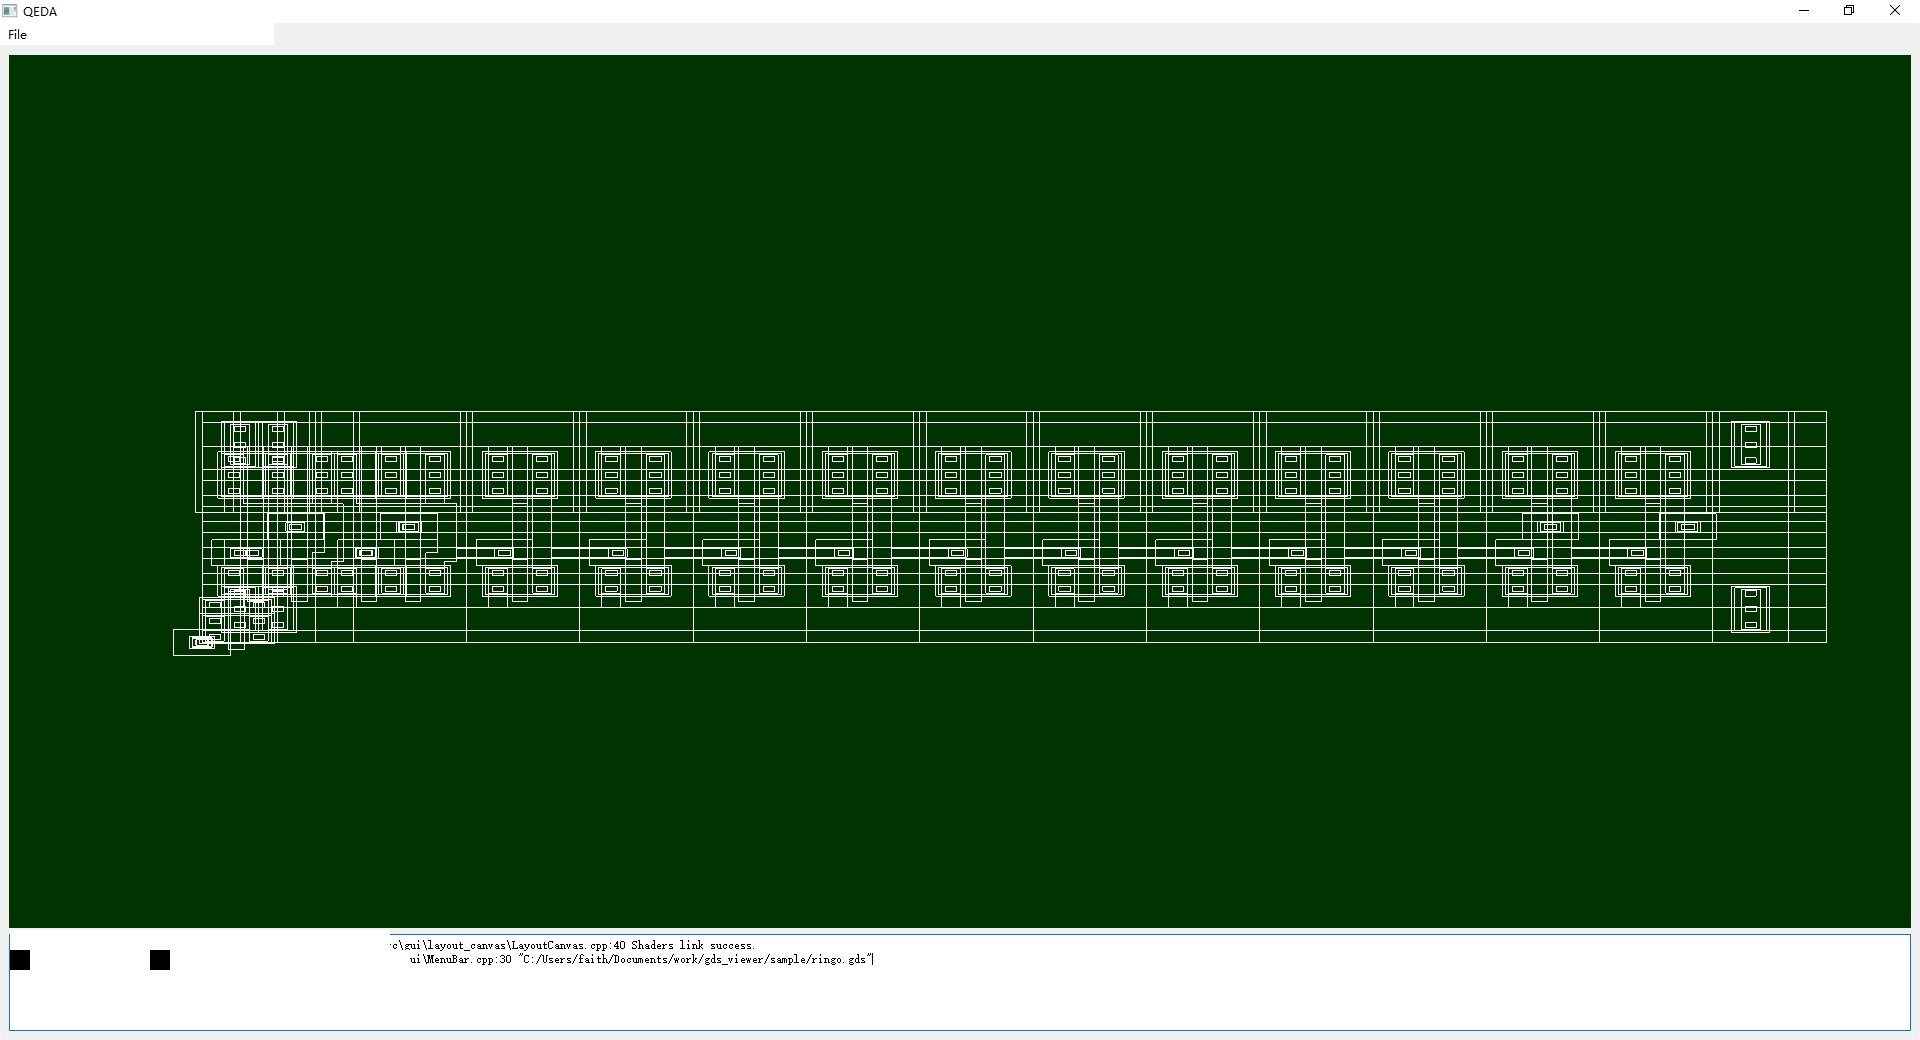
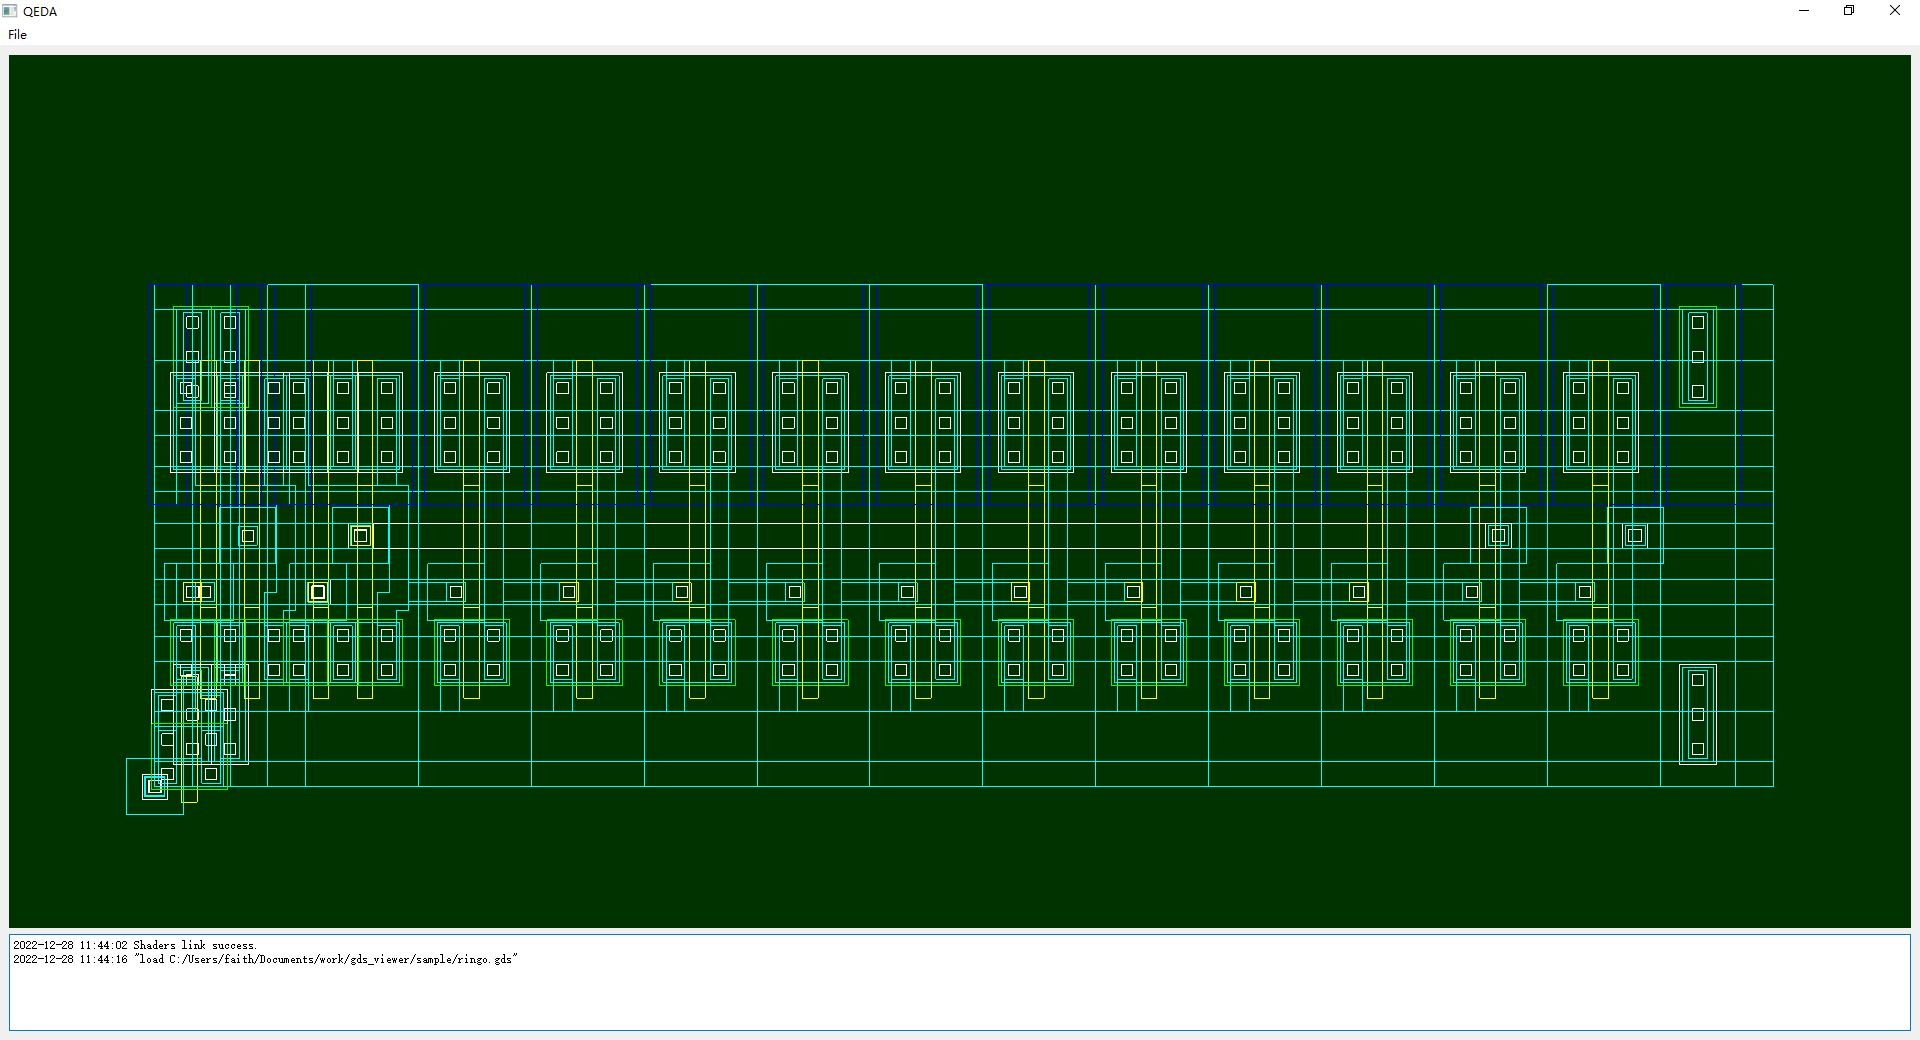
<feat>specific default color to layers

Changed region(s): [[0.0625, 0.2462, 0.9375, 0.7692], [0.0, 0.8923, 0.2188, 0.9538], [0.3125, 0.8923, 0.3438, 0.9231]]

diff --git a/src/gui/layout_canvas/LayoutCanvas.cpp b/src/gui/layout_canvas/LayoutCanvas.cpp
@@ -12,6 +12,14 @@
 #include "../../event/OpenFileEvent.h"
 #include "../../event/OpenGdsEvent.h"
 
+namespace {
+const QVector3D DEFAULT_LAYER_COLOR[] = {
+    {0.0f, 0.0f, 0.0f}, {0.0f, 0.0f, 1.0f}, {0.0f, 1.0f, 1.0f},
+    {1.0f, 1.0f, 1.0f}, {0.0f, 1.0f, 0.0f}, {1.0f, 1.0f, 0.0f},
+    {1.0f, 0.0f, 0.0f}, {1.0f, 0.0f, 1.0f}, {1.0f, 1.0f, 1.0f},
+};
+}  // namespace
+
 LayoutCanvas::LayoutCanvas(QWidget* parent) : QOpenGLWidget(parent) {
   EventDispacher::instance().registComp("LayoutCanvas", this);
 }
@@ -47,6 +55,8 @@ void LayoutCanvas::initializeGL() {
   m_modelToWorld = m_shader->uniformLocation("modelToWorld");
   m_worldToCamera = m_shader->uniformLocation("worldToCamera");
   m_cameraToView = m_shader->uniformLocation("cameraToView");
+  m_color = m_shader->uniformLocation("color");
+
   m_shader->release();
   m_gl_func = this->context()->functions();
 
@@ -64,8 +74,6 @@ void LayoutCanvas::paintGL() {
   m_gl_func->glClearColor(0.0f, 0.2f, 0.0f, 1.0f);
   m_shader->bind();
 
-  QMatrix4x4 projViewMatrix = m_proj_matrix * m_view_matrix;
-  m_mvp_matrix = projViewMatrix * m_model_matrix;
   m_shader->setUniformValue(m_modelToWorld, m_model_matrix);
   m_shader->setUniformValue(m_worldToCamera, m_view_matrix);
   m_shader->setUniformValue(m_cameraToView, m_proj_matrix);
@@ -73,7 +81,8 @@ void LayoutCanvas::paintGL() {
 
   for (auto it = m_vaos.begin(); it != m_vaos.end(); it++) {
     it.key()->bind();
-    m_gl_func->glDrawArrays(GL_LINE_LOOP, 0, it.value());
+    m_shader->setUniformValue(m_color, it.value().second);
+    m_gl_func->glDrawArrays(GL_LINE_LOOP, 0, it.value().first);
     it.key()->release();
   }
   m_shader->release();
@@ -175,7 +184,8 @@ void LayoutCanvas::parseGds(const gdstk::Library& lib) {
 void LayoutCanvas::makePolygons(gdstk::Polygon* polygons) {
   makeCurrent();
   auto vao = new QOpenGLVertexArrayObject();
-  m_vaos.insert(vao, polygons->point_array.count);
+  uint32_t layer = gdstk::get_layer(polygons->tag);
+  m_vaos.insert(vao, {polygons->point_array.count, DEFAULT_LAYER_COLOR[layer]});
 
   auto vbo = new QOpenGLBuffer(QOpenGLBuffer::Type::VertexBuffer);
   m_vbos.append(vbo);

diff --git a/src/gui/layout_canvas/LayoutCanvas.h b/src/gui/layout_canvas/LayoutCanvas.h
@@ -3,6 +3,7 @@
 #include <gdstk.h>
 
 #include <QHash>
+#include <QPair>
 #include <QOpenGLBuffer>
 #include <QOpenGLFunctions>
 #include <QOpenGLShaderProgram>
@@ -35,18 +36,17 @@ class LayoutCanvas : public QOpenGLWidget {
 
   QOpenGLFunctions *m_gl_func;
   QVector<QOpenGLBuffer *> m_vbos;
-  QHash<QOpenGLVertexArrayObject *, quint64> m_vaos;
+  QHash<QOpenGLVertexArrayObject *, QPair<quint64, QVector3D>> m_vaos;
   QOpenGLShaderProgram *m_shader;
 
   QMatrix4x4 m_view_matrix;
   QMatrix4x4 m_model_matrix;
   QMatrix4x4 m_proj_matrix;
-  QMatrix4x4 m_mvp_matrix;
   float m_pan_x{0};
   float m_pan_y{0};
   float m_prev_x_for_pan;
   float m_prev_y_for_pan;
-  uint m_MVP_matrix_id;
+  uint m_color;
   uint m_modelToWorld;
   uint m_worldToCamera;
   uint m_cameraToView;
